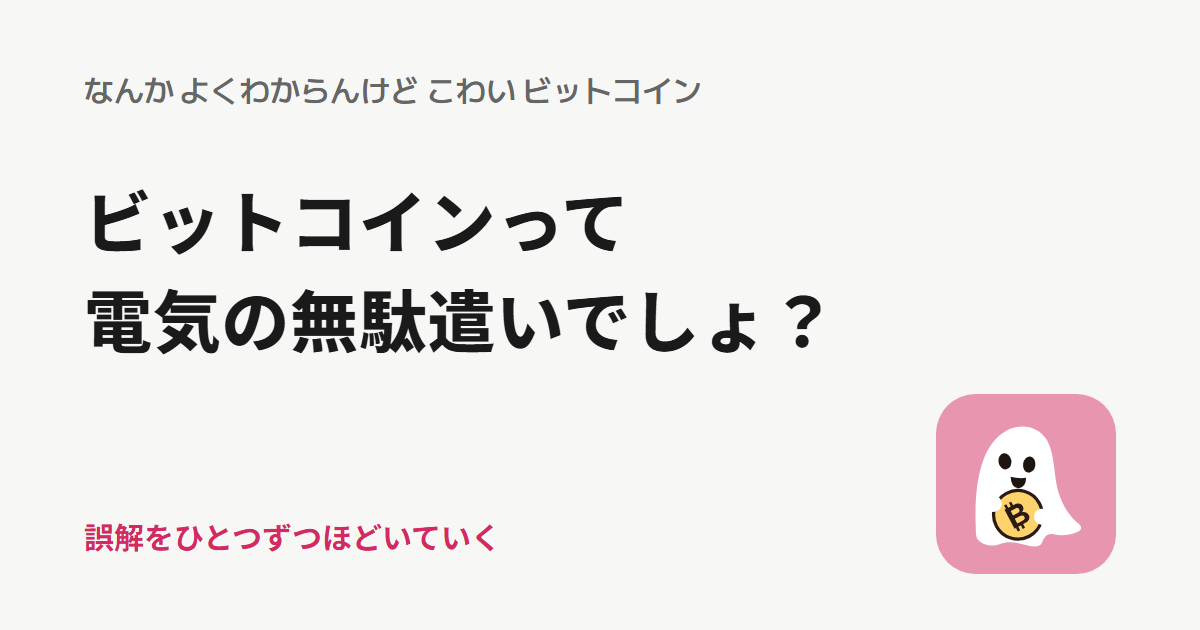
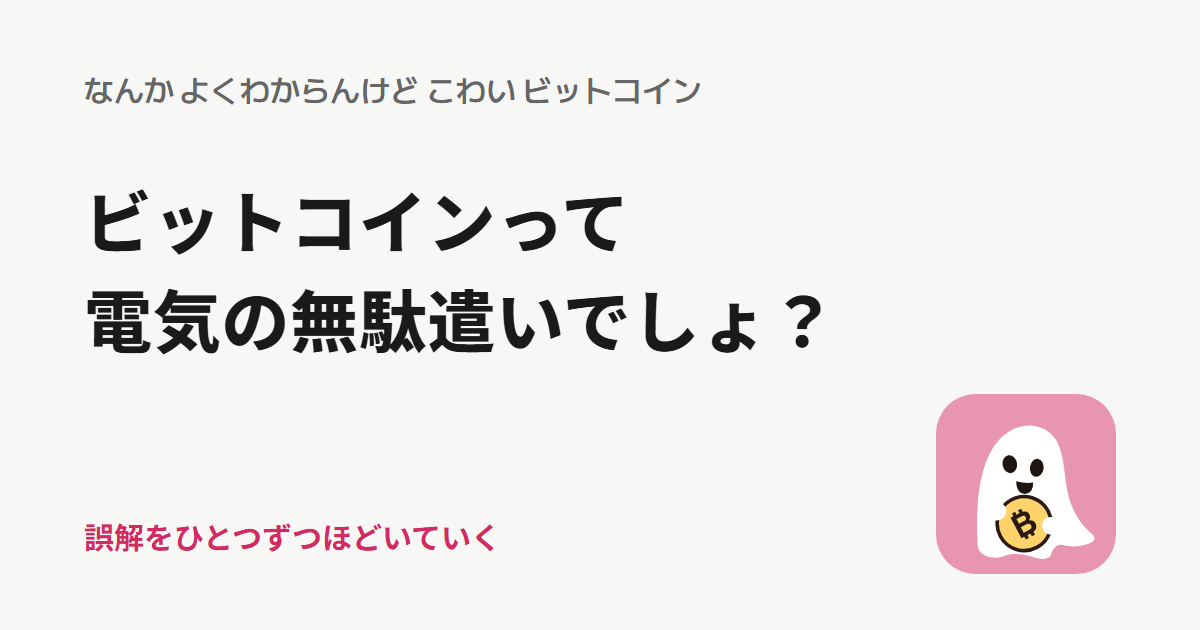
アイコンを元のデザイン案どおりに戻す
₿ は Arial Bold の字形をパスにして埋め込み、おばけの配置も
デザイン案のまま（縮小・中央寄せなし）にして、全画像を作り直す。

Changed region(s): [[0.8017, 0.6635, 0.925, 0.9048]]

diff --git a/scripts/generate-images.js b/scripts/generate-images.js
@@ -28,17 +28,10 @@ const GHOST_BODY =
   'M22 78C21 55 24 30 38 20 47 13 60 14 66 24 71 33 70 46 73 56 76 66 81 72 86 76 88 78 87 80 84 81 79 83 74 83 70 82 66 81 64 84 63 87 62 90 58 90 54 89 48 87 42 86 37 88 32 90 26 89 23 85 22 83 22 81 22 78Z';
 const HAND_LEFT = 'M30.5 63.5C34 61 38.5 62.5 39 66.5 39.5 70.5 35.5 73 32 72 28.5 71 27.5 66 30.5 63.5Z';
 const HAND_RIGHT = 'M65.5 63.5C62 61 57.5 62.5 57 66.5 56.5 70.5 60.5 73 64 72 67.5 71 68.5 66 65.5 63.5Z';
-// ₿ をフォントに頼らず塗りの字形で描く（コインの中心を原点にした座標、evenodd で穴を抜く）
-const BITCOIN_SIGN = [
-  // B の外形（下の膨らみを少し大きくする）
-  'M-5-6.6H1.7C4.7-6.6 6-5.1 6-3.3 6-1.8 5.1-.7 3.8-.25 5.5.15 6.7 1.5 6.7 3.3 6.7 5.3 5.2 6.6 2.3 6.6H-5Z',
-  // 上下の穴
-  'M-2-4.1H1.3C2.5-4.1 3.1-3.5 3.1-2.55 3.1-1.6 2.5-1.05 1.3-1.05H-2Z',
-  'M-2 1.3H1.7C3.1 1.3 3.8 2 3.8 3 3.8 3.95 3.1 4.55 1.7 4.55H-2Z',
-  // 上下に突き出る2本ずつの縦棒
-  // （evenodd で重なりが抜けないよう、外形の上下端にぴったり接する長さにする）
-  'M-4-9.1H-2.4V-6.6H-4ZM-.6-9.1H1V-6.6H-.6ZM-4 6.6H-2.4V9.1H-4ZM-.6 6.6H1V9.1H-.6Z'
-].join('');
+// ₿ は Arial Bold の字形（18px・中央揃え・ベースラインはコイン中心の 6.5 下）をパスにしたもの。
+// コインの中心を原点にした座標。フォントの有無で形が変わらないようにパスで持つ。
+const BITCOIN_SIGN =
+  'M0.44 8.26V6.49Q-0.11 6.5 -0.8 6.5H-1.41V8.26H-3.37V6.5H-5.18V-6.38H-3.37V-8.14H-1.41V-6.38H-0.03Q0.22 -6.38 0.44 -6.38V-8.14H2.4V-6.23Q3.06 -6.09 3.59 -5.73Q4.19 -5.32 4.58 -4.65Q4.98 -3.98 4.98 -3.14Q4.98 -2.24 4.49 -1.48Q4 -0.72 3.17 -0.35Q4.35 -0 4.98 0.82Q5.61 1.65 5.61 2.76Q5.61 3.64 5.2 4.47Q4.79 5.3 4.08 5.81Q3.4 6.29 2.4 6.41V8.26ZM-2.58 0.88V4.33H-0.17Q1.23 4.33 1.61 4.25Q2.19 4.14 2.56 3.74Q2.92 3.33 2.92 2.64Q2.92 2.06 2.64 1.66Q2.36 1.25 1.83 1.07Q1.3 0.88 -0.48 0.88ZM-2.58 -4.24V-1.26H-0.87Q0.65 -1.26 1.02 -1.3Q1.68 -1.38 2.07 -1.77Q2.45 -2.15 2.45 -2.77Q2.45 -3.37 2.12 -3.74Q1.79 -4.12 1.14 -4.2Q0.75 -4.24 -1.09 -4.24Z';
 
 // おばけ本体（100×100 の座標）
 function ghost({ simple = false } = {}) {
@@ -58,23 +51,19 @@ function ghost({ simple = false } = {}) {
   <path d="M43.5 46.5Q48.5 47.8 53 47.2 53.2 53 48.3 53.6 43.8 53.3 43.5 46.5Z" fill="${COLORS.face}"/>
   <g transform="translate(48 70) rotate(-28)">
     <circle r="15" fill="${COLORS.coin}" stroke="${COLORS.coinInk}" stroke-width="2"/>
-    <path d="${BITCOIN_SIGN}" fill="${COLORS.coinInk}" fill-rule="evenodd" transform="translate(-.85 0)"/>
+    <path d="${BITCOIN_SIGN}" fill="${COLORS.coinInk}"/>
   </g>
   <path d="${HAND_LEFT}" fill="${COLORS.ghost}" transform="translate(-1 -4)"/>
   <path d="${HAND_RIGHT}" fill="${COLORS.ghost}" transform="translate(1 4)"/>
 </g>`;
 }
 
-// おばけの見た目の中心（裾の流れを除いた胴体寄り）
-const GHOST_CENTER = [54, 53];
-
-// rounded: 角丸タイル（透過）／ scale: タイルに対するおばけの大きさ
-function iconSvg({ rounded = true, scale = 0.9, simple = false } = {}) {
+// rounded: 角丸タイル（透過）／ scale: 安全域に収めるための、タイル中心を基準にした縮小率
+function iconSvg({ rounded = true, scale = 1, simple = false } = {}) {
   const bg = rounded
     ? `<rect width="100" height="100" rx="22" fill="${COLORS.tile}"/>`
     : `<rect width="100" height="100" fill="${COLORS.tile}"/>`;
-  const [cx, cy] = GHOST_CENTER;
-  const body = `<g transform="translate(50 50) scale(${scale}) translate(${-cx} ${-cy})">${ghost({ simple })}</g>`;
+  const body = scale === 1 ? ghost({ simple }) : `<g transform="translate(50 50) scale(${scale}) translate(-50 -50)">${ghost({ simple })}</g>`;
   return `<svg xmlns="http://www.w3.org/2000/svg" viewBox="0 0 100 100">${bg}${body}</svg>`;
 }
 
